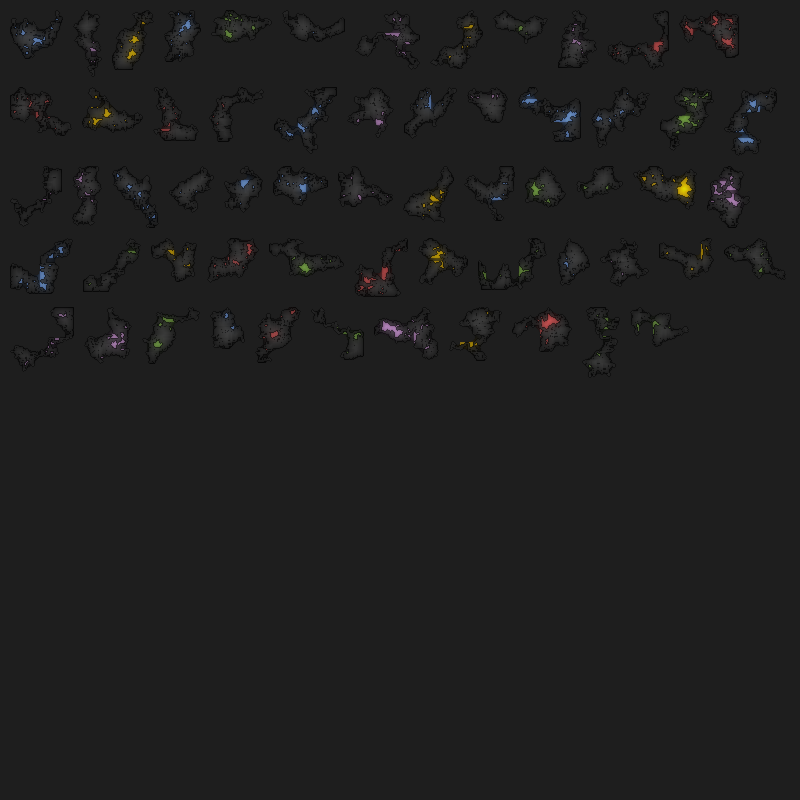
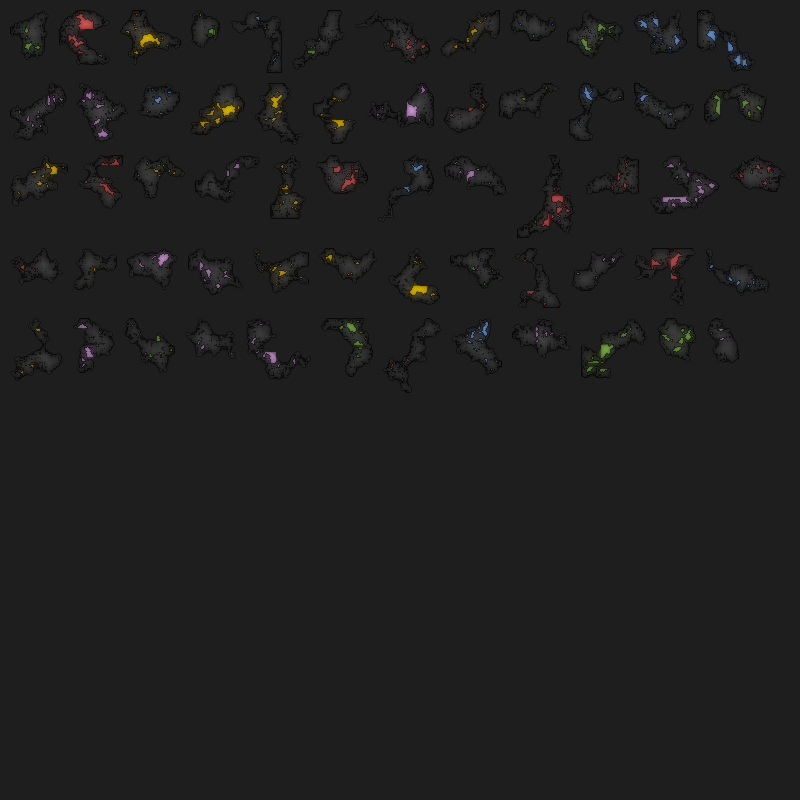
WIP

diff --git a/src/ajb/factory/AsteroidGeneratorFactory.java b/src/ajb/factory/AsteroidGeneratorFactory.java
@@ -2,8 +2,8 @@ package ajb.factory;
 
 import java.awt.Point;
 
-import enums.AssetSize;
 import ajb.domain.Pixel;
+import ajb.enums.AssetSize;
 import ajb.utils.PixelGridUtils;
 
 public class AsteroidGeneratorFactory {
@@ -119,9 +119,9 @@ public class AsteroidGeneratorFactory {
 		if (size.equals(AssetSize.SMALL)) {
 			result = 50;
 		} else if (size.equals(AssetSize.MEDIUM)) {
-			result = 80;
+			result = 130;
 		} else if (size.equals(AssetSize.LARGE)) {
-			result = 120;
+			result = 180;
 		}
 
 		return result;

diff --git a/examples/ajb/examples/CreateImageFullOfAsteroids.java b/examples/ajb/examples/CreateImageFullOfAsteroids.java
@@ -5,8 +5,8 @@ import java.awt.image.BufferedImage;
 import java.util.ArrayList;
 import java.util.List;
 
-import enums.AssetSize;
 import ajb.domain.Pixel;
+import ajb.enums.AssetSize;
 import ajb.factory.AsteroidGeneratorFactory;
 import ajb.utils.ImageUtils;
 

diff --git a/examples/ajb/examples/CreateImageFullOfStations.java b/examples/ajb/examples/CreateImageFullOfStations.java
@@ -5,8 +5,8 @@ import java.awt.image.BufferedImage;
 import java.util.ArrayList;
 import java.util.List;
 
-import enums.AssetSize;
 import ajb.domain.Pixel;
+import ajb.enums.AssetSize;
 import ajb.factory.StationGeneratorFactory;
 import ajb.utils.ImageUtils;
 

diff --git a/examples/ajb/examples/CreateImageFullOfVessels.java b/examples/ajb/examples/CreateImageFullOfVessels.java
@@ -5,8 +5,8 @@ import java.awt.image.BufferedImage;
 import java.util.ArrayList;
 import java.util.List;
 
-import enums.AssetSize;
 import ajb.domain.Pixel;
+import ajb.enums.AssetSize;
 import ajb.factory.VesselGeneratorFactory;
 import ajb.utils.ImageUtils;
 

diff --git a/src/ajb/factory/VesselGeneratorFactory.java b/src/ajb/factory/VesselGeneratorFactory.java
@@ -3,9 +3,9 @@ package ajb.factory;
 import java.awt.Point;
 
 import ajb.domain.Pixel;
+import ajb.enums.AssetSize;
 import ajb.random.RandomInt;
 import ajb.utils.PixelGridUtils;
-import enums.AssetSize;
 
 public class VesselGeneratorFactory {
 

diff --git a/src/ajb/factory/StationGeneratorFactory.java b/src/ajb/factory/StationGeneratorFactory.java
@@ -2,8 +2,8 @@ package ajb.factory;
 
 import java.awt.Point;
 
-import enums.AssetSize;
 import ajb.domain.Pixel;
+import ajb.enums.AssetSize;
 import ajb.random.RandomInt;
 import ajb.utils.PixelGridUtils;
 

diff --git a/src/ajb/enums/AssetSize.java b/src/ajb/enums/AssetSize.java
@@ -1,4 +1,4 @@
-package enums;
+package ajb.enums;
 
 public enum AssetSize {
 	RANDOM, SMALL, MEDIUM, LARGE
